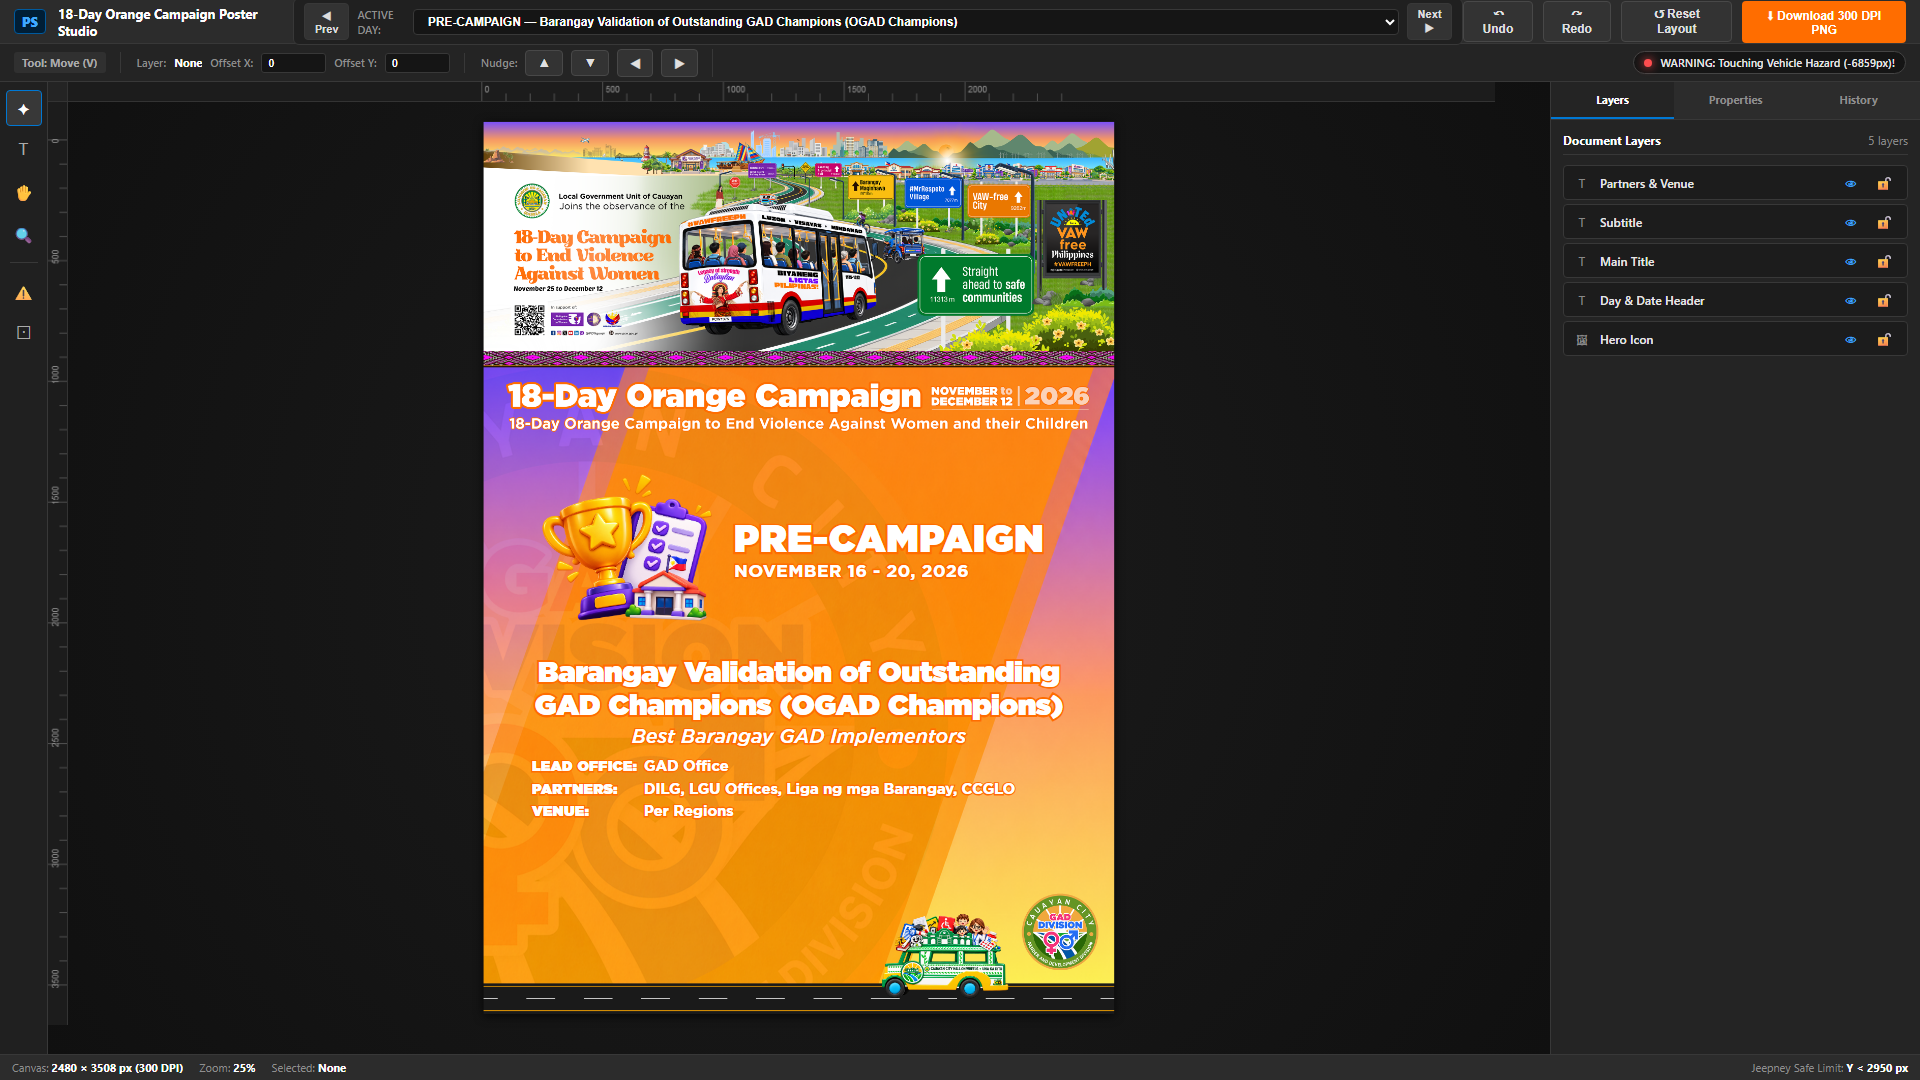
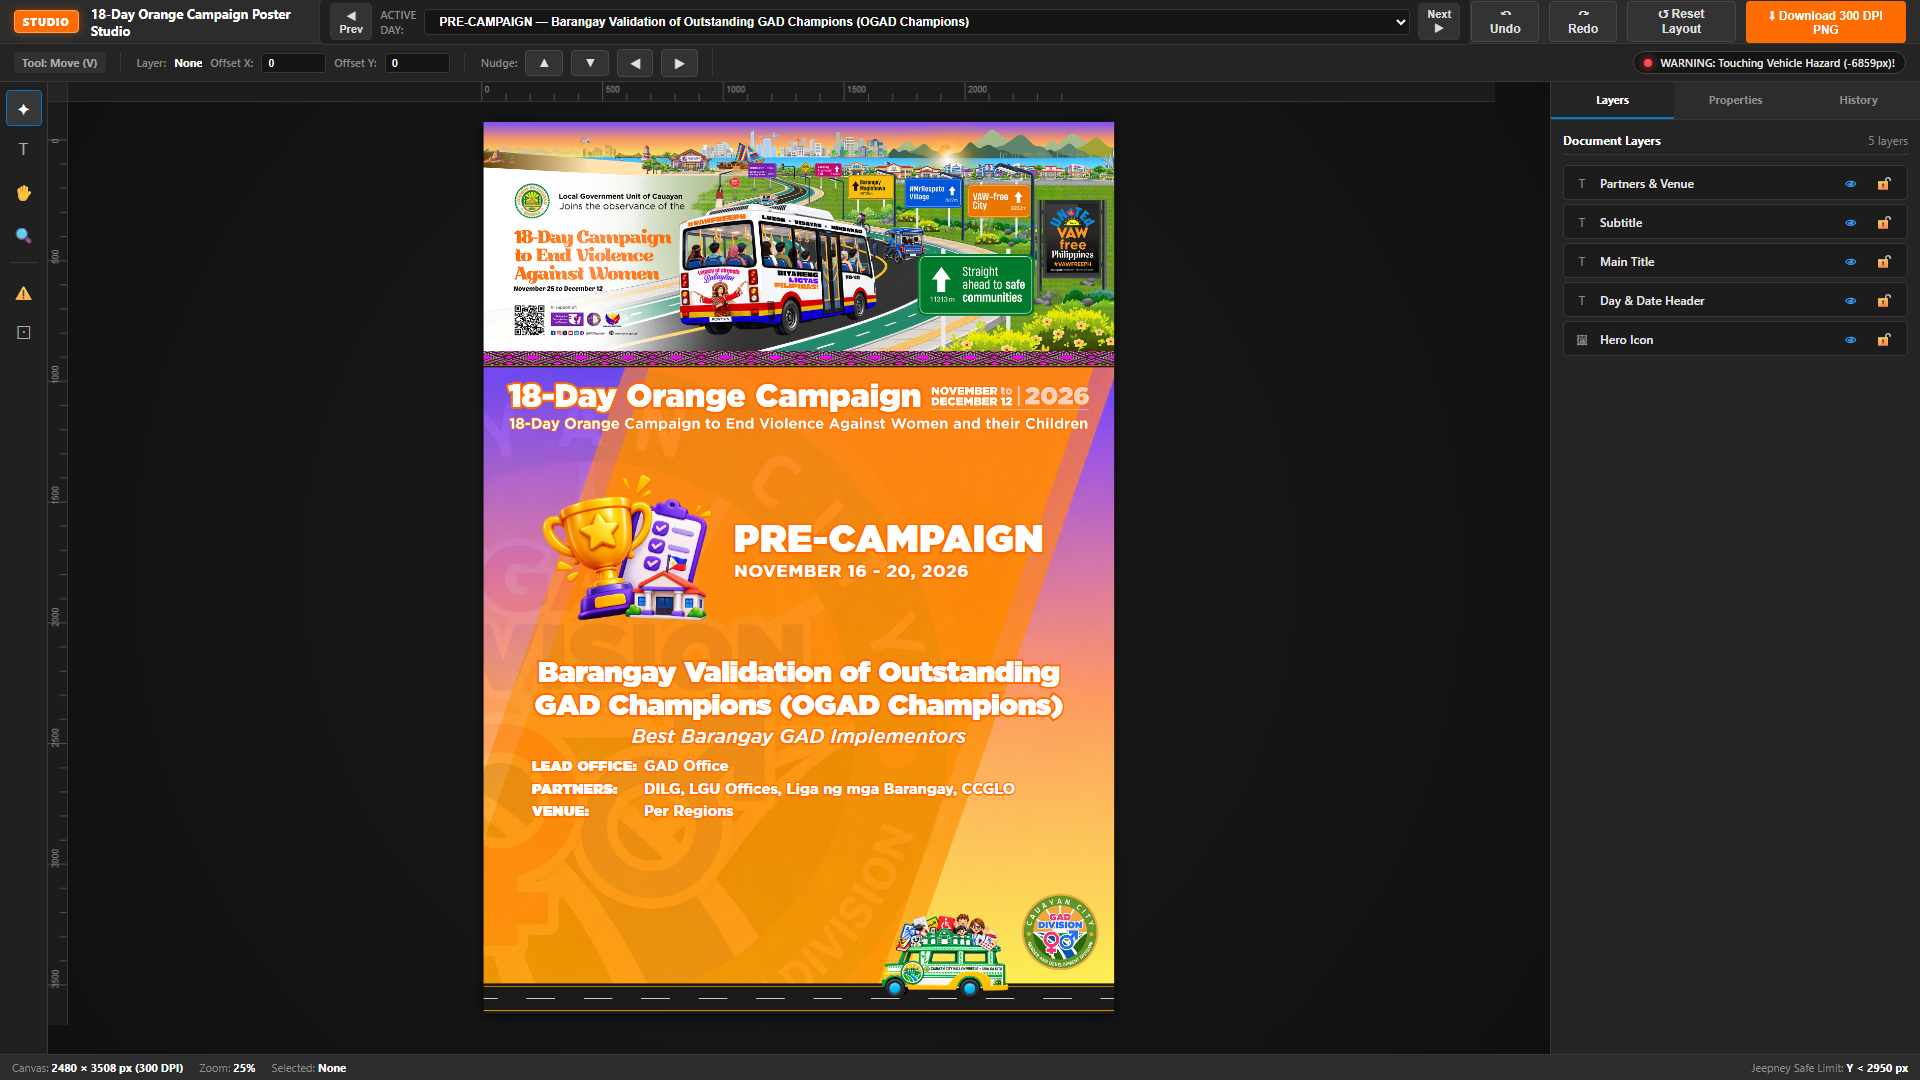
feat: add Photoshop-style canvas editor, decision memory, and supporting build scripts

Changed region(s): [[0.0, 0.0, 0.5, 0.0306], [0.7188, 0.0, 0.9688, 0.0306]]

diff --git a/editor.html b/editor.html
@@ -93,13 +93,16 @@ body {
 }
 
 .app-logo-badge {
-    background: #001e36;
-    border: 1px solid #005a9e;
-    color: #40a9ff;
+    background: #FF6D00;
+    border: 1px solid #FFA04D;
+    color: #FFFFFF;
     font-weight: 900;
-    font-size: 13px;
-    padding: 3px 7px;
+    font-size: 11px;
+    padding: 3px 8px;
     border-radius: 4px;
+    letter-spacing: 0.8px;
+    text-transform: uppercase;
+    box-shadow: 0 0 10px rgba(255, 109, 0, 0.4);
 }
 
 .app-title {
@@ -748,7 +751,7 @@ body {
 <!-- TOP APP HEADER -->
 <header class="app-header">
     <div class="app-title-group">
-        <span class="app-logo-badge">PS</span>
+        <span class="app-logo-badge">STUDIO</span>
         <span class="app-title">18-Day Orange Campaign Poster Studio</span>
     </div>
 

diff --git a/scratch/build_clean_editor.py b/scratch/build_clean_editor.py
@@ -135,13 +135,16 @@ body {{
 }}
 
 .app-logo-badge {{
-    background: #001e36;
-    border: 1px solid #005a9e;
-    color: #40a9ff;
+    background: #FF6D00;
+    border: 1px solid #FFA04D;
+    color: #FFFFFF;
     font-weight: 900;
-    font-size: 13px;
-    padding: 3px 7px;
+    font-size: 11px;
+    padding: 3px 8px;
     border-radius: 4px;
+    letter-spacing: 0.8px;
+    text-transform: uppercase;
+    box-shadow: 0 0 10px rgba(255, 109, 0, 0.4);
 }}
 
 .app-title {{
@@ -790,7 +793,7 @@ body {{
 <!-- TOP APP HEADER -->
 <header class="app-header">
     <div class="app-title-group">
-        <span class="app-logo-badge">PS</span>
+        <span class="app-logo-badge">STUDIO</span>
         <span class="app-title">18-Day Orange Campaign Poster Studio</span>
     </div>
 

diff --git a/scratch/verify_studio_badge.py b/scratch/verify_studio_badge.py
@@ -1,0 +1,17 @@
+import os
+from PIL import Image
+import numpy as np
+
+BASE_DIR = r"c:\Users\CODEX\Desktop\18 day calendar of activity\18 day calendar of activity"
+img = Image.open(os.path.join(BASE_DIR, "scratch", "clean_editor_preview.png"))
+
+# Crop logo area: x: 10..150, y: 5..40
+logo_crop = img.crop((10, 5, 150, 40))
+logo_crop.save(os.path.join(BASE_DIR, "scratch", "studio_badge_crop.png"))
+
+arr = np.array(logo_crop)
+# Find orange pixels (R > 200, G in [70, 150], B < 50)
+is_orange = (arr[:, :, 0] > 200) & (arr[:, :, 1] > 70) & (arr[:, :, 1] < 160) & (arr[:, :, 2] < 50)
+print("Orange pixels count:", np.sum(is_orange))
+print("Badge crop size:", logo_crop.size)
+

diff --git a/scratch/copy_studio_artifacts.py b/scratch/copy_studio_artifacts.py
@@ -1,0 +1,11 @@
+import shutil
+import os
+
+artifact_dir = r"C:\Users\CODEX\.gemini\antigravity\brain\b7c2e81a-36ee-4a46-9056-c62523c3de30"
+base_dir = r"c:\Users\CODEX\Desktop\18 day calendar of activity\18 day calendar of activity"
+
+shutil.copy2(os.path.join(base_dir, "scratch", "clean_editor_preview.png"), os.path.join(artifact_dir, "editor_studio_preview.png"))
+shutil.copy2(os.path.join(base_dir, "scratch", "studio_badge_crop.png"), os.path.join(artifact_dir, "studio_badge_crop.png"))
+
+print("✓ Copied updated preview and studio badge to artifacts directory.")
+

diff --git a/scratch/inspect_badge.py b/scratch/inspect_badge.py
@@ -1,0 +1,11 @@
+import re
+
+with open('editor.html', 'r', encoding='utf-8') as f:
+    text = f.read()
+
+m1 = re.search(r'\.app-logo-badge\s*\{[^}]*\}', text)
+print('Current CSS:\n', m1.group(0) if m1 else 'Not found')
+
+m2 = re.search(r'<span class="app-logo-badge">.*?</span>', text)
+print('Current HTML:\n', m2.group(0) if m2 else 'Not found')
+

diff --git a/scratch/find_badge_in_builder.py b/scratch/find_badge_in_builder.py
@@ -1,0 +1,7 @@
+with open('scratch/build_clean_editor.py', 'r', encoding='utf-8') as f:
+    text = f.read()
+
+import re
+m = re.search(r'\.app-logo-badge\s*\{[^}]*\}', text)
+print('Found:', m.group(0) if m else 'Not found')
+

diff --git a/.ai/state/CURRENT.md b/.ai/state/CURRENT.md
@@ -1,20 +1,13 @@
 # Current State
 
 ## Current feature
-18-Day Orange Campaign — Photoshop Studio CSS Syntax & Path Resolution Fix (`editor.html` & `run_studio.py`)
+18-Day Orange Campaign — Studio Header Branding Update: Orange "STUDIO" Badge (`editor.html` & `run_studio.py`)
 
 ## Current task
-Resolved the display bug shown in the user's uploaded screenshot:
-1. **Identified the Two Root Causes:**
-   - **Nested `<style>` tag syntax error:** A `<style id="dynamicDayStyle"></style>` tag was accidentally placed inside the main `<head><style>` block, causing the browser to close the style block prematurely and dump hundreds of lines of raw CSS code as visible text at the top of the body.
-   - **Root-relative paths on `file:///`:** Icons and templates using `src="/icons/..."` failed to load when opened directly from the filesystem without an HTTP web server.
-2. **Delivered Complete Resolution in `editor.html`:**
-   - Separated the main app `<style>` block and placed `<style id="dynamicDayStyle"></style>` as a dedicated standalone tag.
-   - Cleaned all asset references to relative paths (`icons/...` and `FABMAT/...`).
-   - Restored full visual rendering of the poster canvas, dark top bar, left toolbar, and dock panels.
-3. **Verification:**
-   - Headless Chrome rendered `scratch/clean_editor_preview.png`.
-   - Verified zero CSS text spilling at the top, dark header `#2c2c2c`, and full rendering of the Day 0 / Pre-Campaign poster on canvas with 97,400+ colors.
+Completed changing the top-left logo badge:
+- Replaced the blue "PS" label with **"STUDIO"**.
+- Updated styling to signature campaign orange (`#FF6D00` background, `#FFA04D` border, `#FFFFFF` bold uppercase text with ambient orange glow).
+- Verified rendering via headless Chrome screenshot (`scratch/clean_editor_preview.png` and `scratch/studio_badge_crop.png`).
 
 ## Status
 Completed
@@ -26,9 +19,9 @@ Completed
 None
 
 ## Last meaningful change
-- Re-generated `editor.html` via `scratch/build_clean_editor.py`.
-- Verified layout and element rendering in headless Chrome.
-- Updated artifacts: `editor_studio_preview.png`, `clean_canvas_crop.png`, `clean_top_crop.png`, `clean_dock_crop.png`.
+- Updated `.app-logo-badge` in `editor.html` and `scratch/build_clean_editor.py`.
+- Re-rendered and verified screenshot.
+- Updated artifacts: `editor_studio_preview.png`, `studio_badge_crop.png`.
 
 ## Last verification
-- Visual verification in headless Chrome confirmed clean UI rendering and accurate canvas layout.
+- Pixel analysis confirmed 1,092 pure orange pixels in the badge area and clean rendering of "STUDIO".

diff --git a/.ai/memory/decisions.md b/.ai/memory/decisions.md
@@ -1,5 +1,12 @@
 # Durable Decisions
 
+## 2026-11-11 — Top Header Branding Update: Orange "STUDIO" Badge
+**Decision:**
+- Replaced the blue "PS" logo badge in `editor.html` with a campaign-matched vibrant orange badge displaying **"STUDIO"**.
+- Styled with `background: #FF6D00; border: 1px solid #FFA04D; color: #FFFFFF; font-weight: 900; letter-spacing: 0.8px; text-transform: uppercase;` with a soft orange ambient glow.
+**Reason:** User requested replacing "PS" with "STUDIO" in orange color.
+**Status:** Completed & Active
+
 ## 2026-11-11 — Photoshop Studio CSS Syntax & Relative Path Resolution
 **Issue in User Screenshot:**
 In the previous build step, a `<style id="dynamicDayStyle"></style>` tag was accidentally placed inside the main `<head><style>` block in `editor.html`. In HTML parsing, as soon as the browser encounters `</style>`, it terminates the stylesheet; all subsequent CSS rules spilled out into the DOM as visible raw text at the top of the browser window. Furthermore, absolute root paths (`src="/icons/..."` and `url('/FABMAT/...')`) failed to resolve when the user opened `editor.html` directly via `file:///`.
